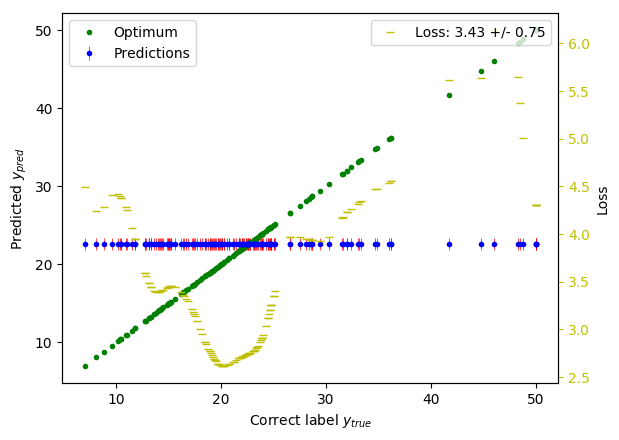
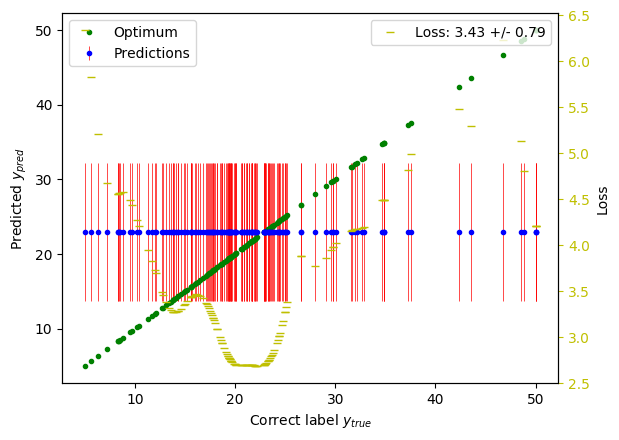
Fix errorbars in baseline visualisation

diff --git a/examples/utils.py b/examples/utils.py
@@ -8,8 +8,8 @@ def plot_performance(y_test, y_pred):
     fig, ax1 = pyplot.subplots()
 
     ax1.plot(y_test, y_test, 'g.', label=u'Optimum')
-    sigma = np.std(y_pred) / np.sqrt(len(y_pred))
-    ax1.errorbar(y_test, y_pred.point(), yerr=sigma, fmt='b.', label=u'Predictions', ecolor='r', elinewidth='0.5')
+    sigma = np.std(y_pred)
+    ax1.errorbar(y_test, y_pred.point(), yerr=sigma, label=u'Predictions', fmt='b.', ecolor='r', linewidth=0.5)
     ax1.set_ylabel('Predicted $y_{pred}$')
     ax1.set_xlabel('Correct label $y_{true}$')
     ax1.legend(loc='best')
